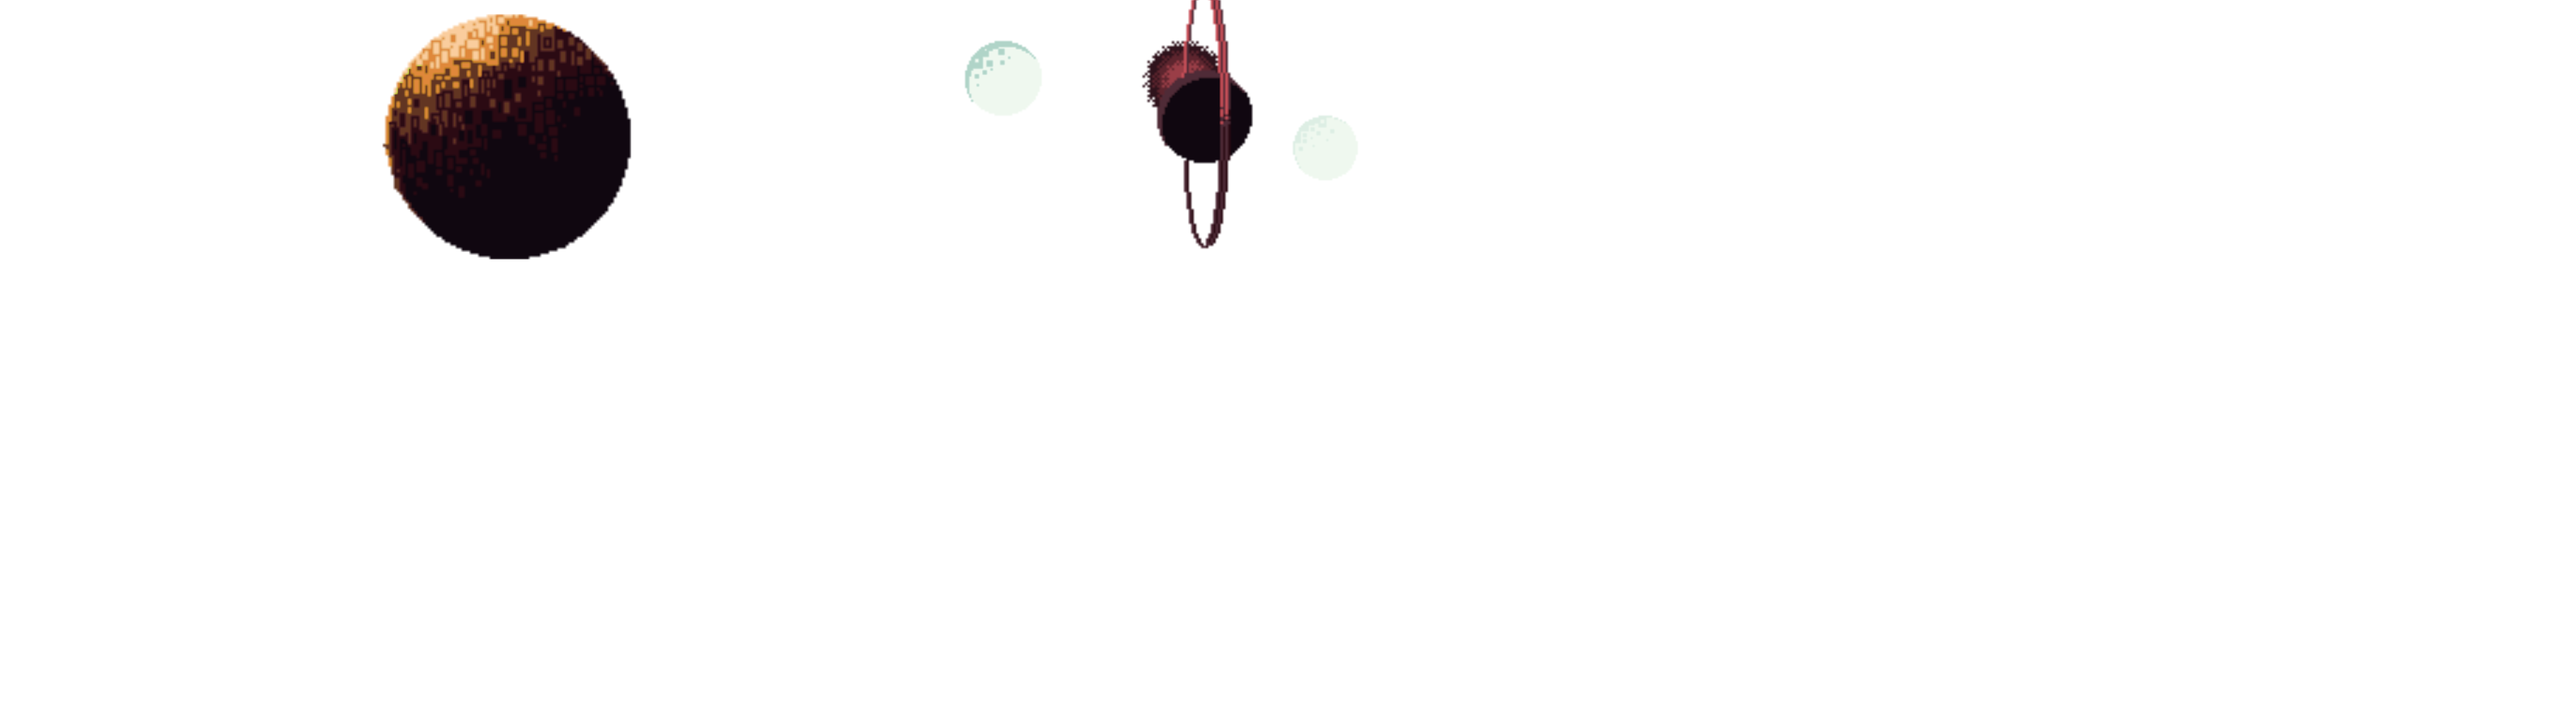
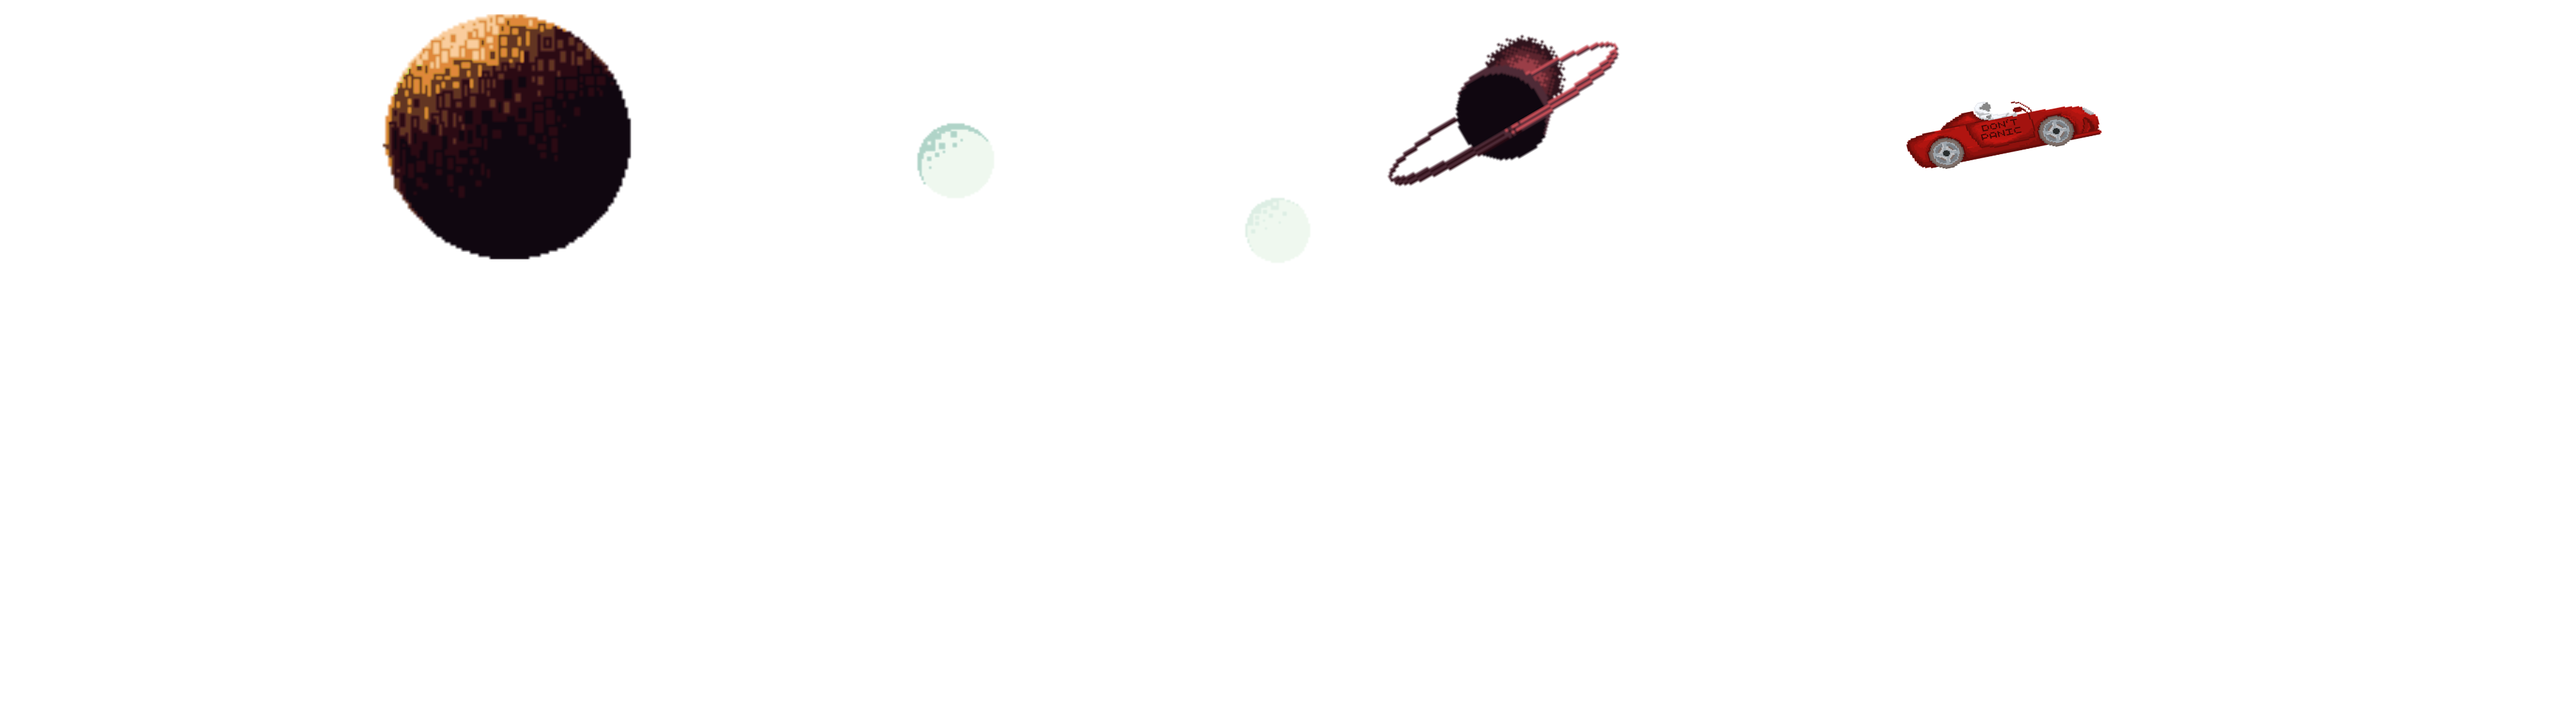
[ADD] final parallax

diff --git a/src/Graphical/SfmlParallax.cpp b/src/Graphical/SfmlParallax.cpp
@@ -15,6 +15,7 @@ SfmlParallax::SfmlParallax()
     _background.setTexture(_textureBackground);
     _stars.setTexture(_textureStars);
     _planet.setTexture(_texturePlanet);
+    _planet.setPosition(1920, 0);
 }
 
 SfmlParallax::~SfmlParallax()
@@ -39,9 +40,12 @@ void SfmlParallax::update(sf::Clock &clock)
         _stars.setTextureRect(rect);
     }
     if (elapsed > 0.01) {
-        rect = _planet.getTextureRect();
-        moveRect(rect, 2, 1980);
-        _planet.setTextureRect(rect);
+        sf::Vector2f pos = _planet.getPosition();
+        pos.x -= 3;
+        if (pos.x <= -3800)
+            pos.x = 1920;
+        std::cout << pos.x << std::endl;
+        _planet.setPosition(pos);
     }
     if (elapsed > 0.03) {
         rect = _background.getTextureRect();
